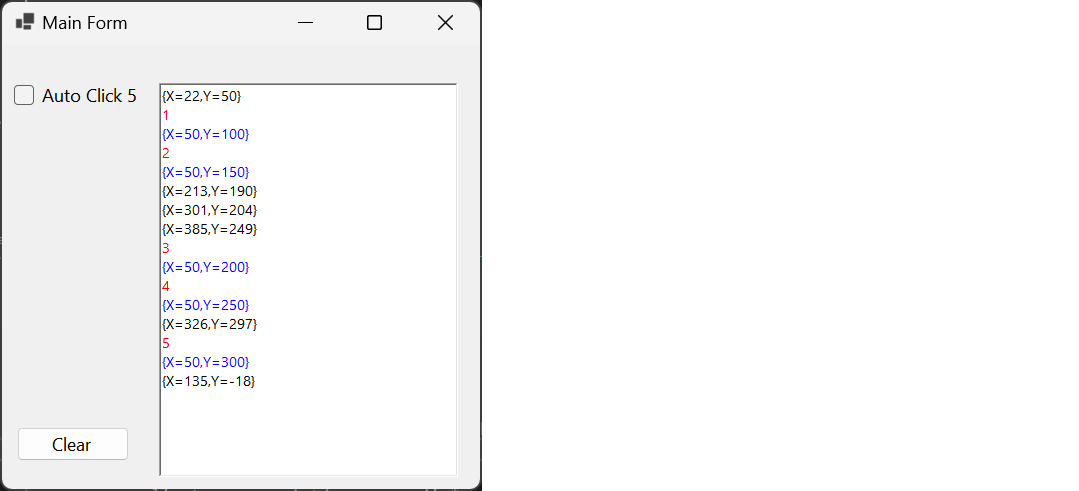
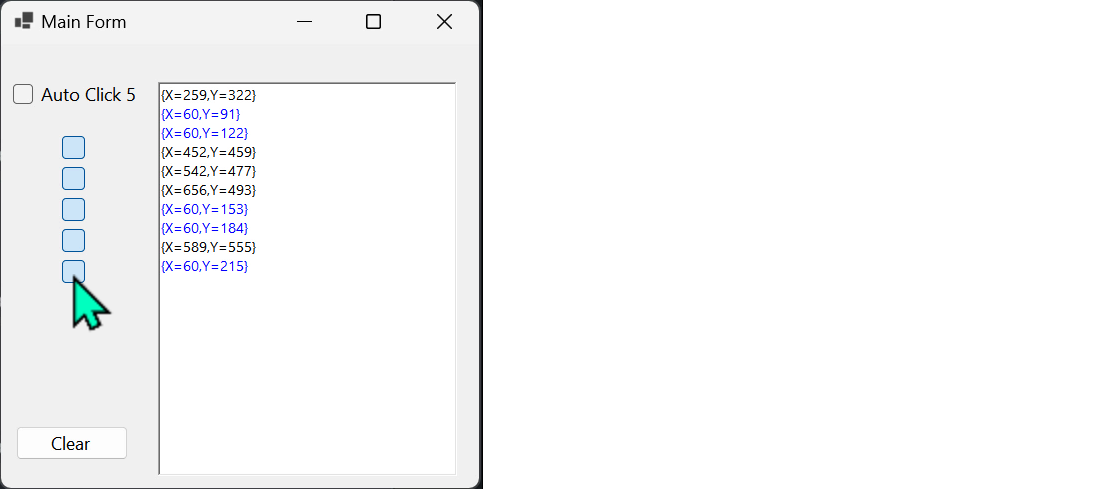
readme++

Changed region(s): [[0.0, 0.0, 0.4588, 1.0], [0.0, 0.0, 0.1223, 0.0613], [0.3058, 0.0307, 0.367, 0.0613]]

diff --git a/auto-clicker/MainForm.cs b/auto-clicker/MainForm.cs
@@ -44,28 +44,27 @@ namespace auto_clicker
         private void onAnyMouseDown(object sender, EventArgs e)
         {
             var control = (Control)sender;
-            if(IsAutoClick)
+            if(_sslimAutoClick.Wait(0))
             {
-                richTextBox.AppendTextEx($"{control.Location}", color: Color.Blue);
+                // No pending auto click detected
+                try
+                {
+                    richTextBox.AppendTextEx($"{MousePosition}");
+                }
+                finally
+                {
+                    _sslimAutoClick.Release();
+                }
             }
             else
             {
-                richTextBox.AppendTextEx($"{control.Location}");
+                // The settle delay for the auto click hasn't expired yet.
+                richTextBox.AppendTextEx($"{control.Location}", color: Color.Blue);
             }
         }
 
-        private void onWmLButtonDown(MOUSEHOOKSTRUCT mouseInfo)
-        {
-            var autoClick = (MOUSEEXTRA)Convert.ToInt32((ulong)mouseInfo.dwExtraInfo);
-            if (autoClick.HasFlag(MOUSEEXTRA.AutoClick))
-            {
-                richTextBox.AppendTextEx($"{PointToClient(mouseInfo.pt)}", color: Color.Blue);
-            }
-            else
-            {
-                richTextBox.AppendTextEx($"{PointToClient(mouseInfo.pt)}");
-            }
-        }
+        const int SETTLE = 100;
+        SemaphoreSlim _sslimAutoClick = new SemaphoreSlim(1, 1);
         /// <summary>
         /// Responds to the button by auto-clicking 5 times.
         /// </summary>
@@ -76,8 +75,16 @@ namespace auto_clicker
                 checkBoxAutoClick.Enabled = false;
                 foreach (var indicator in indicators)
                 {
+                    await _sslimAutoClick.WaitAsync();
                     autoClick(indicator);
-                    await Task.Delay(TimeSpan.FromSeconds(1));
+                    // Don't await here. It's for the benefit of clients.
+                    Task
+                        .Delay(SETTLE)
+                        .GetAwaiter()
+                        .OnCompleted(() =>_sslimAutoClick.Release());
+
+                    // Interval between auto clicks.
+                    await Task.Delay(TimeSpan.FromSeconds(2));
                 }
                 checkBoxAutoClick.Enabled = true;
                 checkBoxAutoClick.Checked = false;
@@ -100,7 +107,7 @@ namespace auto_clicker
 
         uint _autoClickCount = 0;
         bool IsAutoClick => _autoClickCount != 0;
-        public async void autoClick(Point clientPoint)
+        public void autoClick(Point clientPoint)
         {
             var screen = PointToScreen(clientPoint);
             Cursor.Position = new Point(screen.X, screen.Y);
@@ -121,9 +128,6 @@ namespace auto_clicker
             {
                 Debug.Assert(false, "Error: SendInput has failed.");
             }
-            _autoClickCount++;
-            await Task.Delay(100);
-            _autoClickCount--;
         }
 
 #region P I N V O K E

diff --git a/readme.md b/readme.md
@@ -1,8 +1,8 @@
 _This answer consolidates and incorporates information from other SO posts [here](https://stackoverflow.com/a/10355905/5438626) and [here](https://stackoverflow.com/q/22744531/5438626) and [here](https://stackoverflow.com/q/2416748/5438626)._
 
+Your [question](https://stackoverflow.com/q/74721398/5438626) is how to distinguish a physical mouse click from a virtual one. I see that in your code you're using a mouse hook and one way "close the loop" is by examining the `dwExtraInfo` flag in the callback per Gabriel Luci's exellent suggestion'. But what I set out do do is find a threadsafe approach that doesn't rely on a hook to detect auto clicks so I ended up discarding the mouse hook for my testing. And I tried several things, but what I found was most reliable in my testing is to essentially set a ~100 ms watchdog timer using a thread synchronization object (like the easy-to-use `SemaphoreSlim`). This semaphore can be tested by whatever target ultimately consumes the click. All it needs to do is test whether the WDT is has expired by calling Wait(0) on the semaphore and looking at the `bool` return value. 
 
-
-When the checkbox is clicked, that mousedown registers in black followed by 5 autoclicks in blue.
+In the first of two tests, I checked the AutoClick button and let it run. As expected, the physical click shows up in black and the auto clicks show up in blue. The indicators all light up as expected.
 
 ![Screenshot](https://github.com/IVSoftware/auto-clicker-demo/blob/master/auto-clicker/Screenshots/simple.png)
 
@@ -10,4 +10,4 @@ Then to test it out, while the 5x autoclick is running, I did a few manual click
 
 ![Screenshot](https://github.com/IVSoftware/auto-clicker-demo/blob/master/auto-clicker/Screenshots/interspersed.png)
 
-There's too much code to show here but you can [browse](https://github.com/IVSoftware/auto-clicker.git) the full sample code on GitHub. 
+There's too much code to show here but you can [browse](https://github.com/IVSoftware/auto-clicker.git) the full sample code on GitHub.
